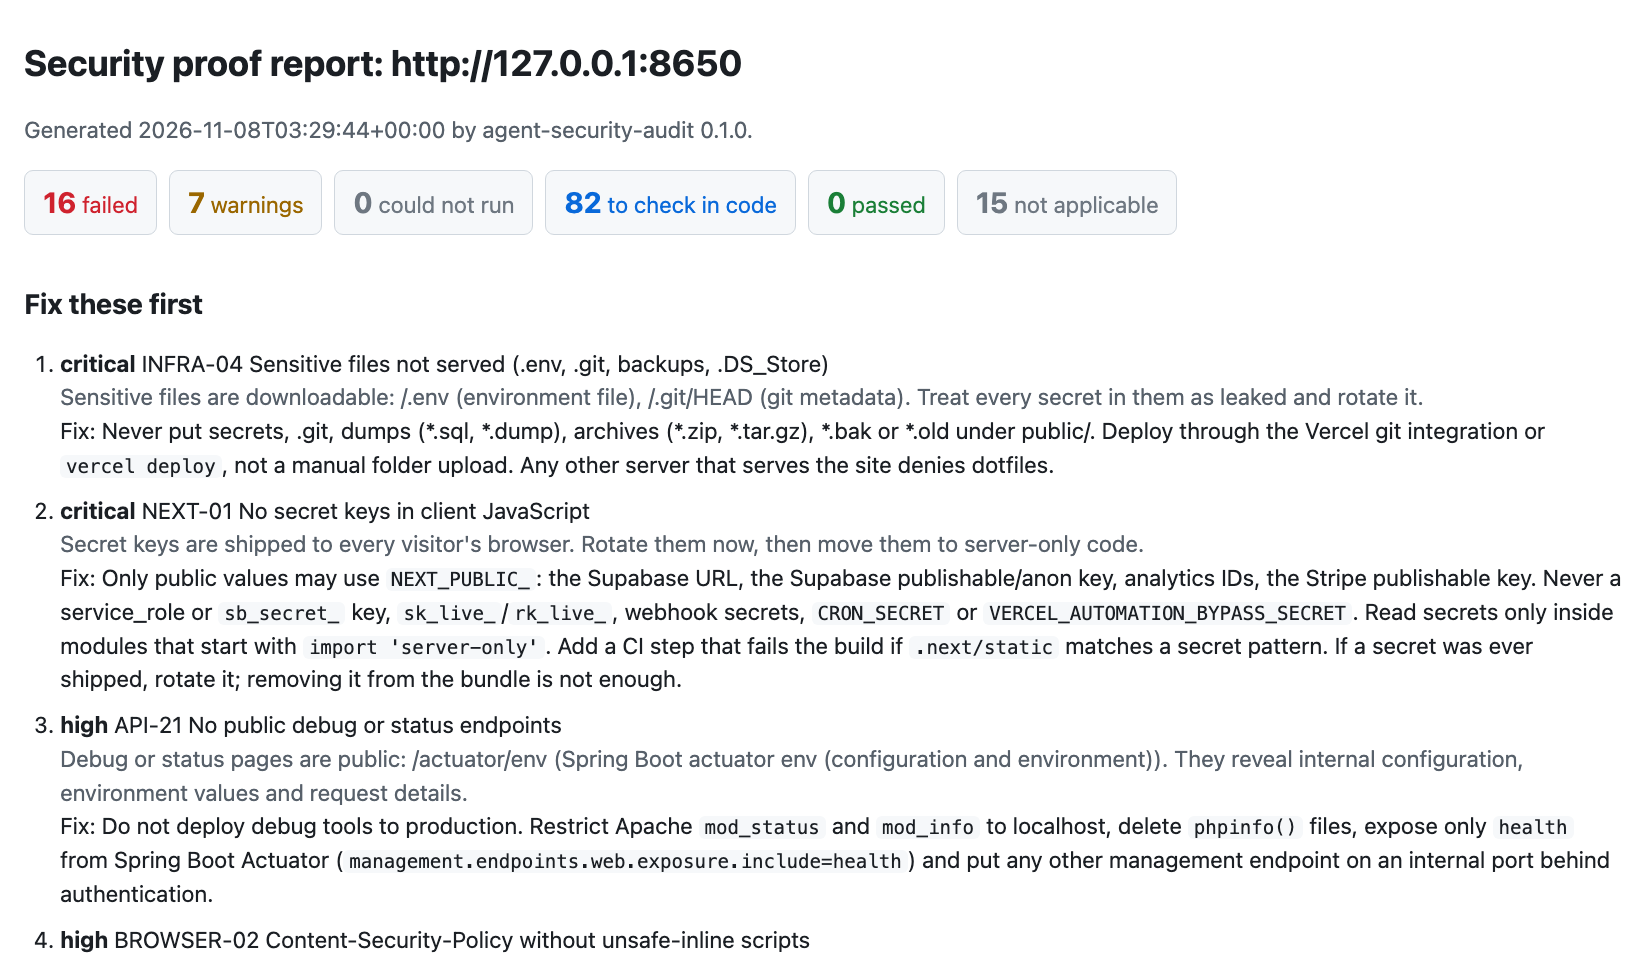
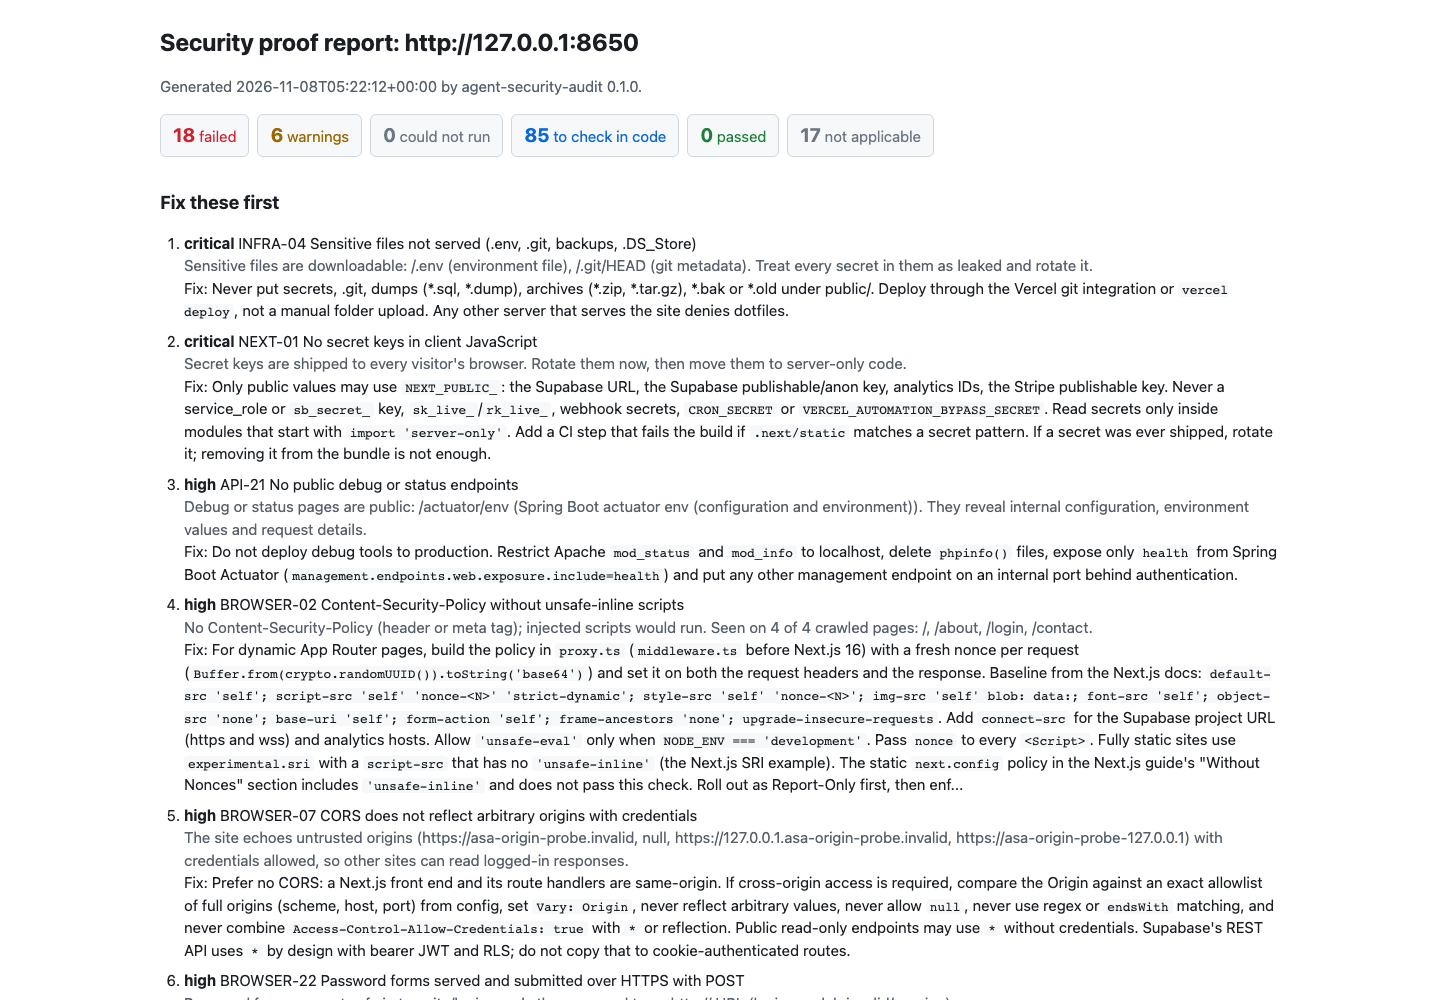
Refresh README lab counts and report screenshot from current results

Changed region(s): [[0.0, 0.1875, 0.9688, 1.0], [0.0, 0.0312, 0.4688, 0.0938], [0.0, 0.125, 0.6562, 0.1562]]

diff --git a/README.md b/README.md
@@ -15,7 +15,7 @@
 
 It runs as a skill and an MCP server for Claude Code, Codex, Cursor, Gemini CLI, Windsurf and any agent that reads `AGENTS.md`, and as a plain command line tool. Python 3.11+, no runtime dependencies.
 
-![The HTML report for the vulnerable practice site: 16 failed, 7 warnings, then the fixes, most severe first](docs/assets/report.png)
+![The HTML report for the vulnerable practice site: 18 failed, 6 warnings, then the fixes, most severe first](docs/assets/report.png)
 
 *The HTML report (`--out asa-report.html`) from a scan of the built-in practice site.*
 
@@ -32,7 +32,7 @@ Real terminal output from those two commands:
 
 ```text
 asa: http://127.0.0.1:8650
-16 failed · 7 warnings · 0 could not run · 82 to check in code · 0 passed · 15 not applicable
+18 failed · 6 warnings · 0 could not run · 85 to check in code · 0 passed · 17 not applicable
 
 Fix these first:
  1. [critical] INFRA-04 Sensitive files not served (.env, .git, backups, .DS_Store): Sensitive files are downloadable: /.env (environment file), /.git/HEAD (git metadata). Treat every secret in them as leaked and rotate it.
@@ -42,7 +42,7 @@ Fix these first:
  3. [high] API-21 No public debug or status endpoints: Debug or status pages are public: /actuator/env (Spring Boot actuator env (configuration and environment)). They reveal internal configuration, environment valu...
     Fix: Do not deploy debug tools to production. Restrict Apache `mod_status` and `mod_info` to localhost, delete `phpinfo()` files, expose only `health` from Spring Boot Actuator (`management.endpoints.web.e...
     ... (trimmed: fixes 4 to 10 not shown)
-    ...and 6 more failed checks in the full report.
+    ...and 8 more failed checks in the full report.
 
 Full report with evidence: asa scan http://127.0.0.1:8650 --out asa-report.html
 ```
